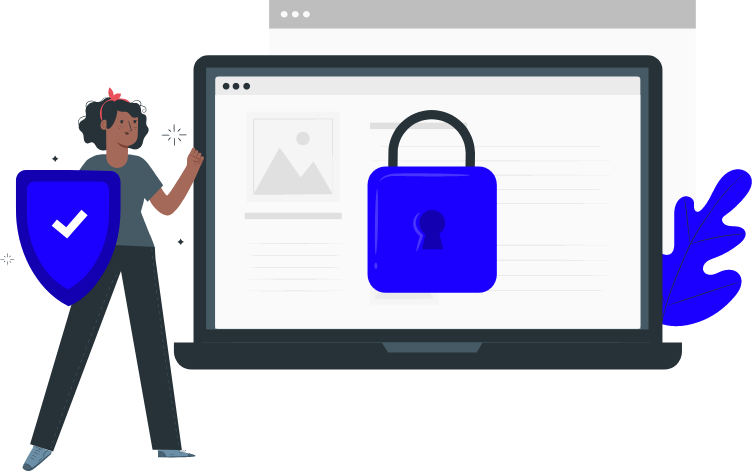
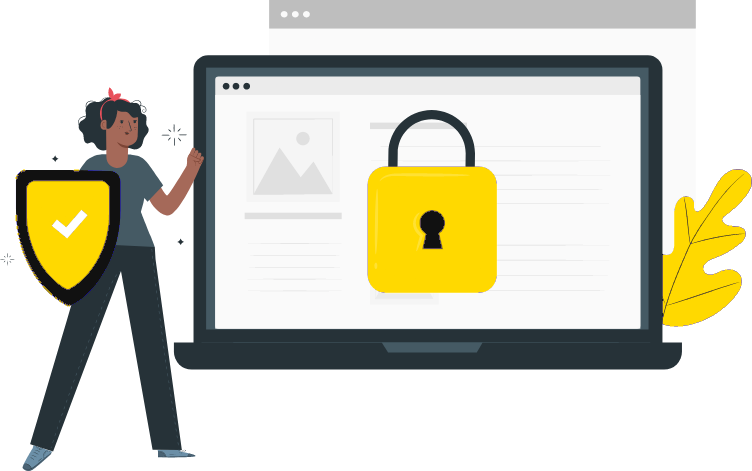
DEV VERSION 2.0
-UPDATE COLOR UI

Changed region(s): [[0.4894, 0.327, 0.6729, 0.6242], [0.0, 0.3567, 0.1835, 0.6539], [0.8564, 0.3567, 1.0, 0.7134]]

diff --git a/public/css/style.css b/public/css/style.css
@@ -824,7 +824,7 @@ textarea.form-control {
 .custom-select:focus,
 .form-control:focus {
     color             : #131e22;
-    border-color      : #1b00ff;
+    border-color      : #000;
     -webkit-box-shadow: 0 0 28px rgba(0, 0, 0, .1);
     box-shadow        : 0 0 28px rgba(0, 0, 0, .1)
 }
@@ -1066,7 +1066,8 @@ textarea.form-control {
     top             : 2px;
     left            : -30px;
     background-color: transparent;
-    border          : 2px solid #1b00ff
+    border          : 2px solid #000;
+    /* Dark border color */
 }
 
 .custom-control-label::after {
@@ -1074,32 +1075,47 @@ textarea.form-control {
     height         : 20px;
     left           : -30px;
     background-size: 60%;
-    top            : 2px
+    top            : 2px;
 }
 
 .custom-control-input:focus~.custom-control-label::before {
     -webkit-box-shadow: none;
     box-shadow        : none;
-    background-color  : none
+    border-color      : #000;
+    /* Keep border black on focus */
+    background-color  : transparent;
+    /* Ensure background remains transparent */
 }
 
 .custom-checkbox .custom-control-input:checked~.custom-control-label::before {
-    background-color: #1b00ff
+    background-color: #000;
+    /* Background color when checked */
+    border-color    : #000;
+    /* Ensure border remains black when checked */
 }
 
 .custom-checkbox .custom-control-input:checked~.custom-control-label::after {
     background-image   : url(../images/check-mark.png);
     background-repeat  : no-repeat;
-    background-position: center center
+    background-position: center center;
 }
 
 .custom-radio .custom-control-input:checked~.custom-control-label::before {
-    background-color: #1b00ff
+    background-color: #000;
+    /* Background color for radio checked state */
 }
 
 .custom-checkbox .custom-control-input:disabled:checked~.custom-control-label::before {
-    border: 2px solid transparent
+    border: 2px solid transparent;
+    /* Border style for disabled checked state */
 }
+
+/* Prevent blue outline on focus */
+.custom-control-input:focus {
+    outline: none;
+    /* Remove default outline */
+}
+
 
 .select2-container .select2-selection--single {
     height            : 45px;
@@ -2200,7 +2216,7 @@ table.dataTable.dtr-inline.collapsed>tbody>tr.parent>th:first-child:before {
 .login-menu a {
     font-size  : 20px;
     font-weight: 600;
-    color      : #1b00ff
+    color      : #000
 }
 
 .login-wrap {
@@ -2371,7 +2387,7 @@ body.IE .register-page-wrap .container {
 }
 
 .register-page-wrap .wizard-content .wizard>.steps>ul>li.current .step {
-    border-color    : #1b00ff;
+    border-color    : #181f48;
     color           : #181f48;
     background-color: #fff
 }
@@ -4406,14 +4422,14 @@ body.IE .register-page-wrap .container {
 }
 
 .wizard-content .wizard>.actions>ul>li>a {
-    background-color: #1b00ff;
+    background-color: #1f1f22;
     font-weight     : 600
 }
 
 .wizard-content .wizard>.actions>ul>li>a[href="#previous"] {
-    border-color: #1b00ff;
+    border-color: #1f1f22;
     border-width: 2px;
-    color       : #1b00ff
+    color       : #1f1f22;
 }
 
 .wizard-content .wizard>.actions>ul>li.disabled>a[href="#previous"] {

diff --git a/public/css/style.min.css b/public/css/style.min.css
@@ -2204,7 +2204,7 @@ table.dataTable.dtr-inline.collapsed>tbody>tr.parent>th:first-child:before {
 .login-menu a {
     font-size  : 20px;
     font-weight: 600;
-    color      : #1b00ff
+    color      : #1B00FF
 }
 
 .login-wrap {

diff --git a/resources/views/auth/login.blade.php b/resources/views/auth/login.blade.php
@@ -85,7 +85,7 @@
                 <div class="col-md-6 col-lg-5">
                     <div class="login-box bg-white box-shadow border-radius-10">
                         <div class="login-title">
-                            <h2 class="text-center text-primary">LOGIN TO GREATWALL</h2>
+                            <h2 class="text-center text-primary text-dark">LOGIN TO GREATWALL</h2>
                         </div>
                         {{-- <div class="select-role">
                             <div class="btn-group btn-group-toggle" data-toggle="buttons">
@@ -130,7 +130,6 @@
 
 
                             <div class="input-group custom">
-                                {{-- {{ dd(session('remembered_email')) }} --}}
                                 <input type="text"
                                     class="form-control form-control-lg {{ $errors->has('email') ? 'is-invalid' : '' }}"
                                     placeholder="Email" name="email" value="{{ old('email') }}"
@@ -209,7 +208,7 @@
                             <div class="row">
                                 <div class="col-sm-12">
                                     <div class="input-group mb-0">
-                                        <input class="btn btn-primary btn-lg btn-block" type="submit" value="Sign In">
+                                        <input class="btn btn-dark btn-lg btn-block " type="submit" value="Sign In">
                                         {{-- <a class="btn btn-primary btn-lg btn-block" href="index.html">Sigsn In</a> --}}
                                     </div>
                         </form>
@@ -217,7 +216,7 @@
                             OR
                         </div>
                         <div class="input-group mb-0">
-                            <a class="btn btn-outline-primary btn-lg btn-block" href="{{ route('register') }}">Register
+                            <a class="btn btn-outline-dark btn-lg btn-block" href="{{ route('register') }}">Register
                                 To
                                 Create Account</a>
 

diff --git a/resources/views/auth/forgot-password.blade.php b/resources/views/auth/forgot-password.blade.php
@@ -79,7 +79,7 @@
                 <div class="col-md-6">
                     <div class="login-box bg-white box-shadow border-radius-10">
                         <div class="login-title">
-                            <h2 class="text-center text-primary">Forgot Password</h2>
+                            <h2 class="text-center text-dark">Forgot Password</h2>
                         </div>
                         <h6 class="mb-20">
                             Enter your email address to reset your password
@@ -99,7 +99,7 @@
            use code for form submit
            <input class="btn btn-primary btn-lg btn-block" type="submit" value="Submit">
           -->
-                                        <a class="btn btn-primary btn-lg btn-block" href="index.html">Submit</a>
+                                        <a class="btn btn-dark btn-lg btn-block" href="index.html">Submit</a>
                                     </div>
                                 </div>
                                 <div class="col-2">
@@ -109,7 +109,7 @@
                                 </div>
                                 <div class="col-5">
                                     <div class="input-group mb-0">
-                                        <a class="btn btn-outline-primary btn-lg btn-block" href="login.html">Login</a>
+                                        <a class="btn btn-outline-dark btn-lg btn-block" href="login.html">Login</a>
                                     </div>
                                 </div>
                             </div>

diff --git a/resources/views/auth/register.blade.php b/resources/views/auth/register.blade.php
@@ -310,7 +310,7 @@
                     </p>
                 </div>
                 <div class="modal-footer justify-content-center">
-                    <button type="button" class="btn btn-primary" id="termsAgreeBtn" disabled>Done</button>
+                    <button type="button" class="btn btn-dark" id="termsAgreeBtn" disabled>Done</button>
                 </div>
             </div>
         </div>
